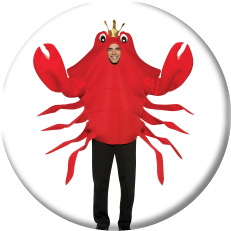
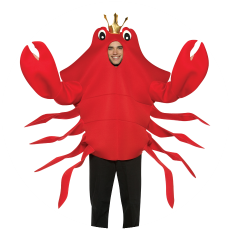
Major Change to Homepage
-Updated personnel images.

-New! Updates and news section

diff --git a/pub.htm b/pub.htm
@@ -1,0 +1,2 @@
+<html><head><meta content="text/html; charset=UTF-8" http-equiv="content-type"><style type="text/css">.lst-kix_mrv9rbw7kwvx-8>li:before{content:"-  "}.lst-kix_mrv9rbw7kwvx-5>li:before{content:"-  "}.lst-kix_mrv9rbw7kwvx-7>li:before{content:"-  "}.lst-kix_mrv9rbw7kwvx-6>li:before{content:"-  "}ul.lst-kix_mrv9rbw7kwvx-5{list-style-type:none}ul.lst-kix_mrv9rbw7kwvx-6{list-style-type:none}ul.lst-kix_mrv9rbw7kwvx-3{list-style-type:none}.lst-kix_mrv9rbw7kwvx-1>li:before{content:"-  "}.lst-kix_mrv9rbw7kwvx-3>li:before{content:"-  "}ul.lst-kix_mrv9rbw7kwvx-4{list-style-type:none}ul.lst-kix_mrv9rbw7kwvx-7{list-style-type:none}.lst-kix_mrv9rbw7kwvx-0>li:before{content:"-  "}.lst-kix_mrv9rbw7kwvx-4>li:before{content:"-  "}ul.lst-kix_mrv9rbw7kwvx-8{list-style-type:none}ul.lst-kix_mrv9rbw7kwvx-1{list-style-type:none}ul.lst-kix_mrv9rbw7kwvx-2{list-style-type:none}ul.lst-kix_mrv9rbw7kwvx-0{list-style-type:none}.lst-kix_mrv9rbw7kwvx-2>li:before{content:"-  "}ol{margin:0;padding:0}table td,table th{padding:0}.c3{margin-left:36pt;padding-top:0pt;padding-left:0pt;padding-bottom:0pt;line-height:1.15;orphans:2;widows:2;text-align:left}.c5{padding-top:0pt;padding-bottom:0pt;line-height:1.15;orphans:2;widows:2;text-align:left;height:11pt}.c4{color:#000000;font-weight:400;text-decoration:none;vertical-align:baseline;font-size:11pt;font-family:"Arial";font-style:normal}.c6{padding-top:0pt;padding-bottom:0pt;line-height:1.15;orphans:2;widows:2;text-align:left}.c0{background-color:#ffffff;max-width:468pt;padding:72pt 72pt 72pt 72pt}.c1{padding:0;margin:0}.c2{font-weight:700}.title{padding-top:0pt;color:#000000;font-size:26pt;padding-bottom:3pt;font-family:"Arial";line-height:1.15;page-break-after:avoid;orphans:2;widows:2;text-align:left}.subtitle{padding-top:0pt;color:#666666;font-size:15pt;padding-bottom:16pt;font-family:"Arial";line-height:1.15;page-break-after:avoid;orphans:2;widows:2;text-align:left}li{color:#000000;font-size:11pt;font-family:"Arial"}p{margin:0;color:#000000;font-size:11pt;font-family:"Arial"}h1{padding-top:20pt;color:#000000;font-size:20pt;padding-bottom:6pt;font-family:"Arial";line-height:1.15;page-break-after:avoid;orphans:2;widows:2;text-align:left}h2{padding-top:18pt;color:#000000;font-size:16pt;padding-bottom:6pt;font-family:"Arial";line-height:1.15;page-break-after:avoid;orphans:2;widows:2;text-align:left}h3{padding-top:16pt;color:#434343;font-size:14pt;padding-bottom:4pt;font-family:"Arial";line-height:1.15;page-break-after:avoid;orphans:2;widows:2;text-align:left}h4{padding-top:14pt;color:#666666;font-size:12pt;padding-bottom:4pt;font-family:"Arial";line-height:1.15;page-break-after:avoid;orphans:2;widows:2;text-align:left}h5{padding-top:12pt;color:#666666;font-size:11pt;padding-bottom:4pt;font-family:"Arial";line-height:1.15;page-break-after:avoid;orphans:2;widows:2;text-align:left}h6{padding-top:12pt;color:#666666;font-size:11pt;padding-bottom:4pt;font-family:"Arial";line-height:1.15;page-break-after:avoid;font-style:italic;orphans:2;widows:2;text-align:left}</style></head>
+<body class="c0" style="margin: 0"><ul class="c1 lst-kix_mrv9rbw7kwvx-0 start"><li class="c3"><span class="c4">June 30 2018</span></li></ul><p class="c6"><span class="c4">Thank you for your interest in our work. Currently we are working on to games with the working titles of &ldquo;World Puzzles with a wheel!&rdquo; and &ldquo;Space Adventure&rdquo; we are a small team working in our spare time so updates maybe few and far between.</span></p><p class="c5"><span class="c4"></span></p><p class="c6"><span class="c2">World Puzzles with a wheel! </span><span class="c4">- is our primary project right now its a simple gameshow style puzzle game using physics and Natural language interpretation.</span></p><p class="c5"><span class="c4"></span></p><p class="c6"><span class="c2">Space Adventure </span><span class="c4">- is a earlier in development, but our primary focus is a small team space exploration game focusing on dynamic planets and environments.</span></p></body></html>

diff --git a/index.html b/index.html
@@ -38,20 +38,23 @@ body {
 <!-- The Dev Section -->
 <div id="band" class="w3-container w3-content w3-center w3-padding-64" style="max-width: 800px">
 	<link href="css/styles.css" type = "text/css" rel = "stylesheet"/>
-	<img alt="Company Logo" class="w3-cell-middle" height="100%" src="images/companylogo.png" width="100%"><p class="auto-style1" style="height: 61px">Meet the Team</p>
+	<img alt="Company Logo" class="w3-cell-middle" height="100%" src="images/companylogo.png" width="100%"><p class="auto-style1" style="height: 61px">
+	News and Updates</p>
+<iframe src="https://docs.google.com/document/d/e/2PACX-1vS0SRGbxrwjSDUJLthbE1N2dCnMzMSeUawRxihn4JMBGSBe-SwZmlEMf0zpnfUjFKd6IK_jzggSgHsb/pub?embedded=true" frameborder="0" height="900" marginheight="0" marginwidth="0" name="Updates" style="float: middle" width="110%"></iframe>
+	<p class="auto-style1" style="height: 61px">The Team</p>
 	<div class="w3-row w3-padding-32">
 		<div class="w3-half">
-			<p class="auto-style2">RototRobot - Developer/PR</p>
-			<img alt="" height="231" src="images/robot_ninja_pirate.png" width="231">
-			<br>Robot Ninja Pirate - Web, and programmer. Programming has become both my career and Hobby. <br><br>
-		</div>
-		<div class="w3-half">
-			<p>Mr.Robert - Lead Programmer</p>
+			<p>Mr.Robert - Lead Developer</p>
 			<p></p>
 			<img alt="" height="231" src="images/mr_robert.png" width="231">
-			<br>Mr.Robert - Lead Programmer and Art,  
-			I have to play lots of games for my research it's tiring work.<br>
+			<br>I am the lead Programmer and Writer, with a focus on Language interpretation.<br>
 		</div>
+		<div class="w3-half">
+			<p class="auto-style2">RototRobot - Developer</p>
+			<img alt="" height="231" src="images/robot_ninja_pirate.png" width="231">
+			<br>I mostly work on development and in game art assets I also handle the web stuff. <br><br>
+		</div>
+
 	</div>
 </div>
 
